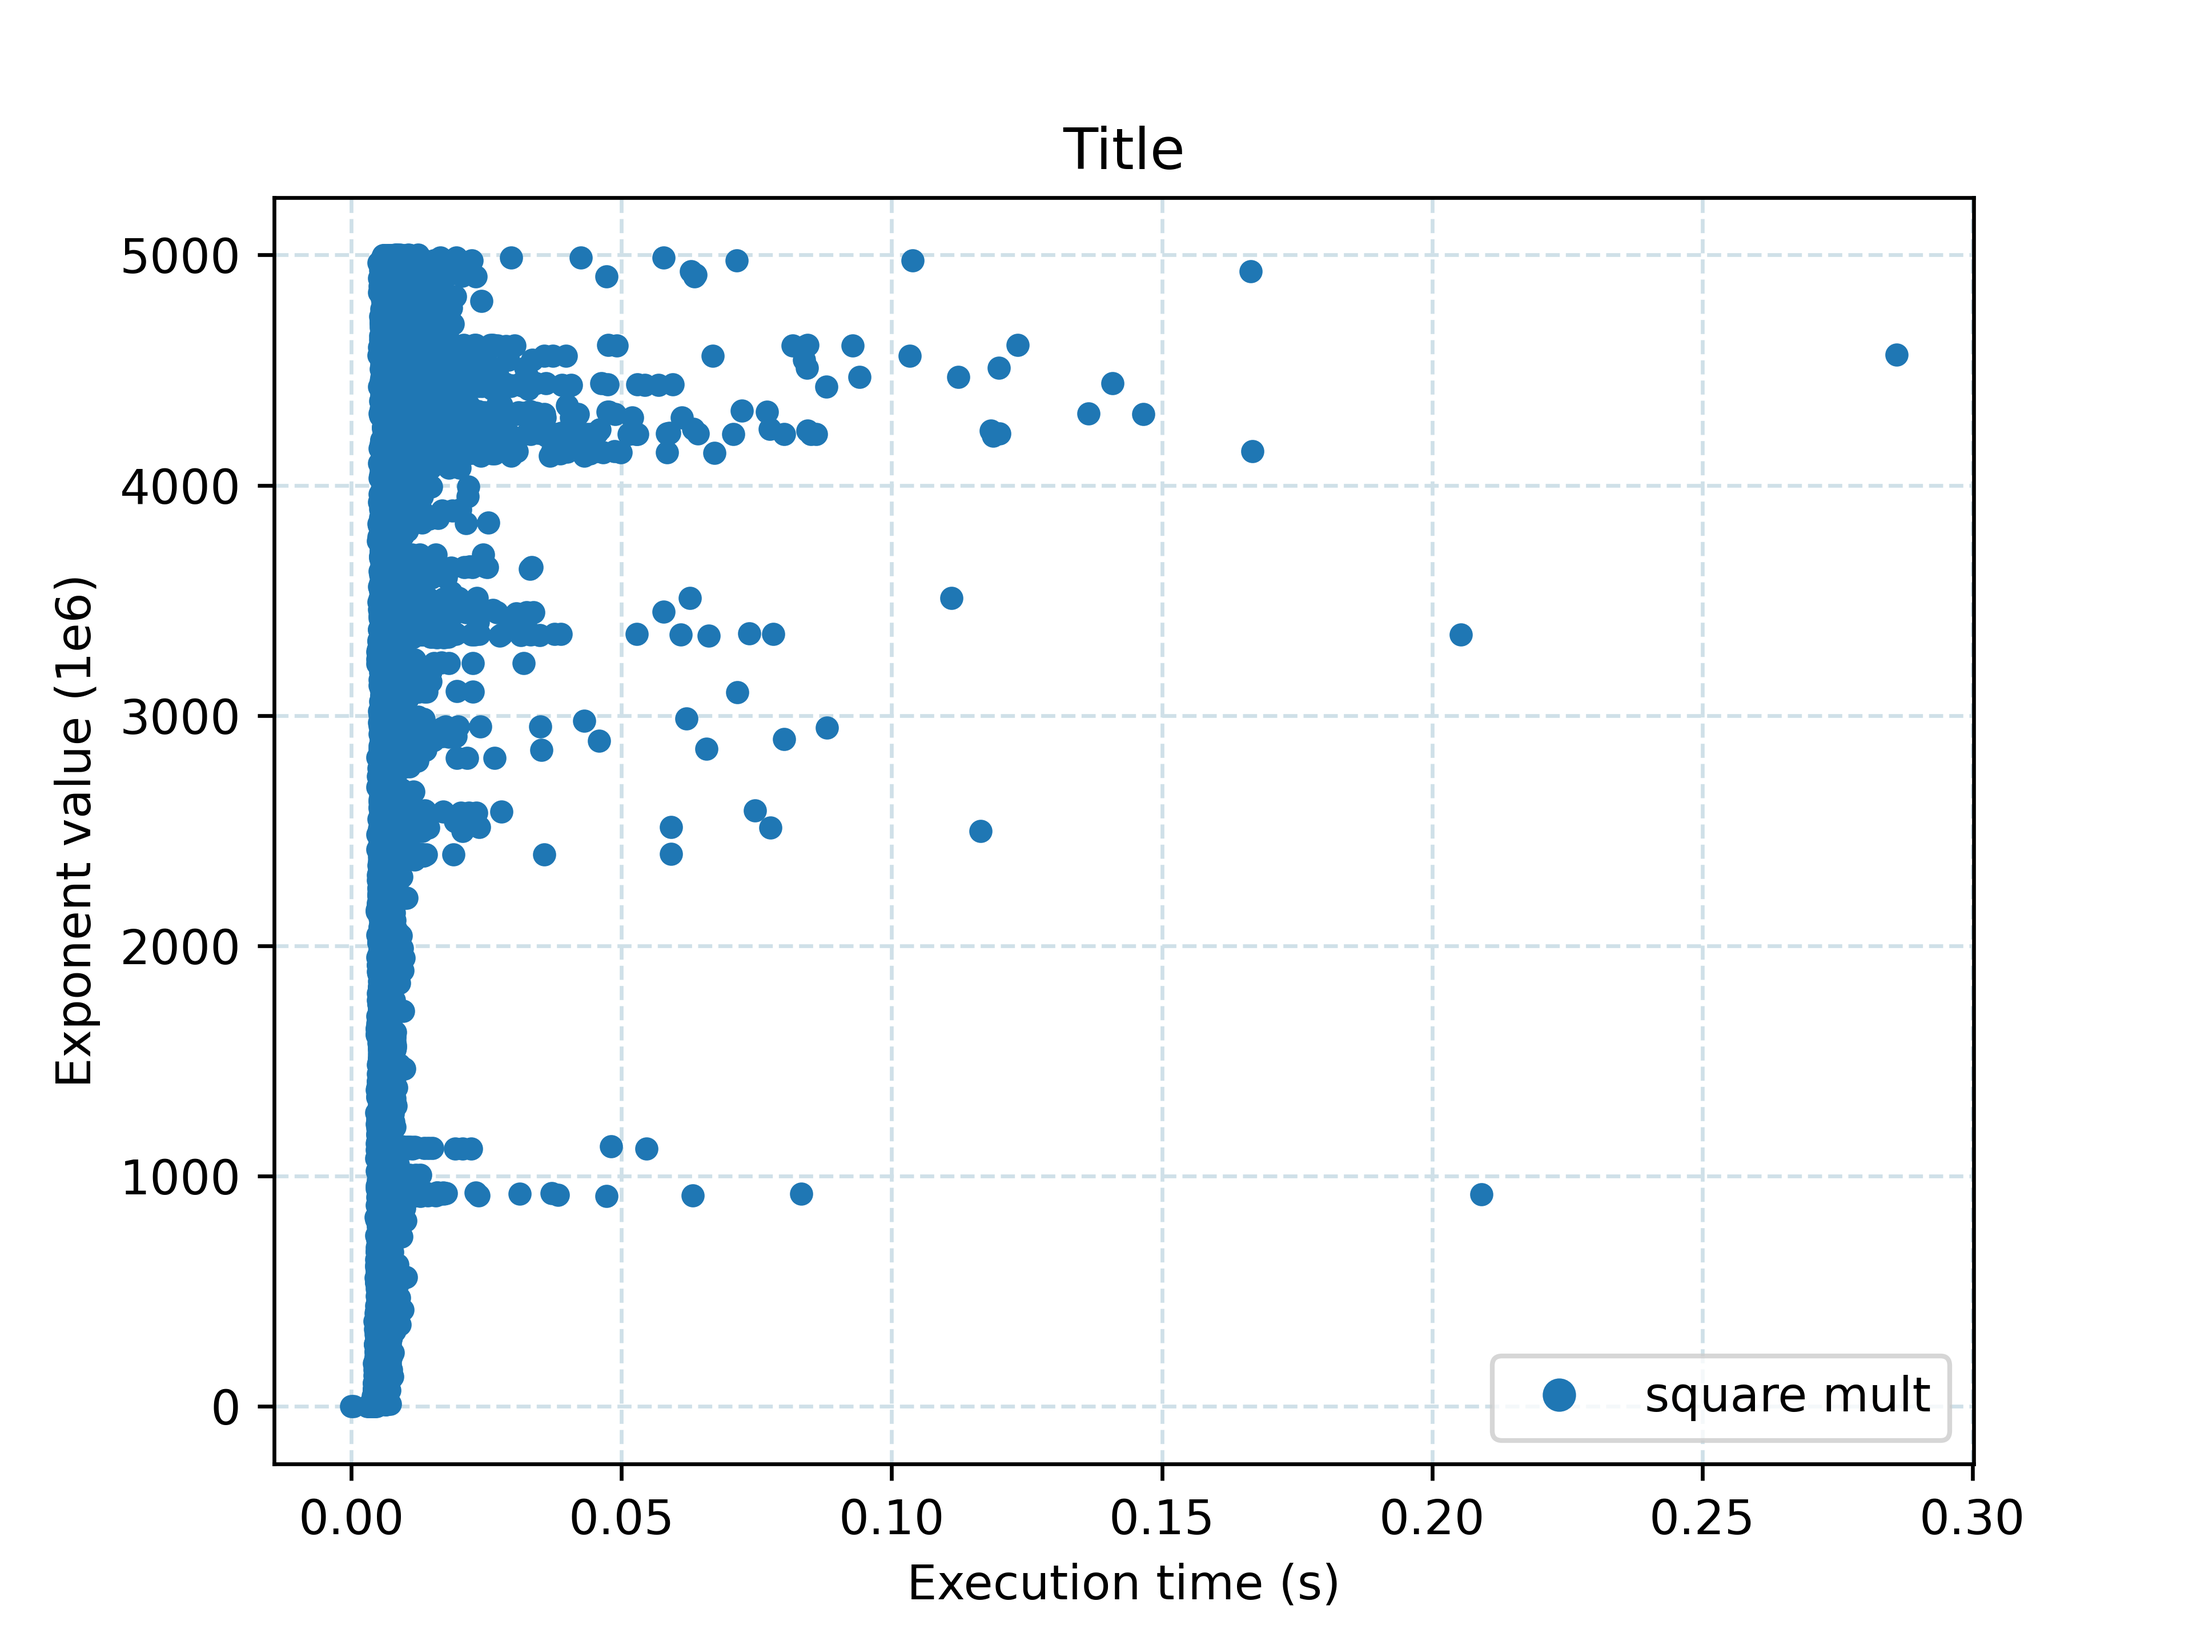
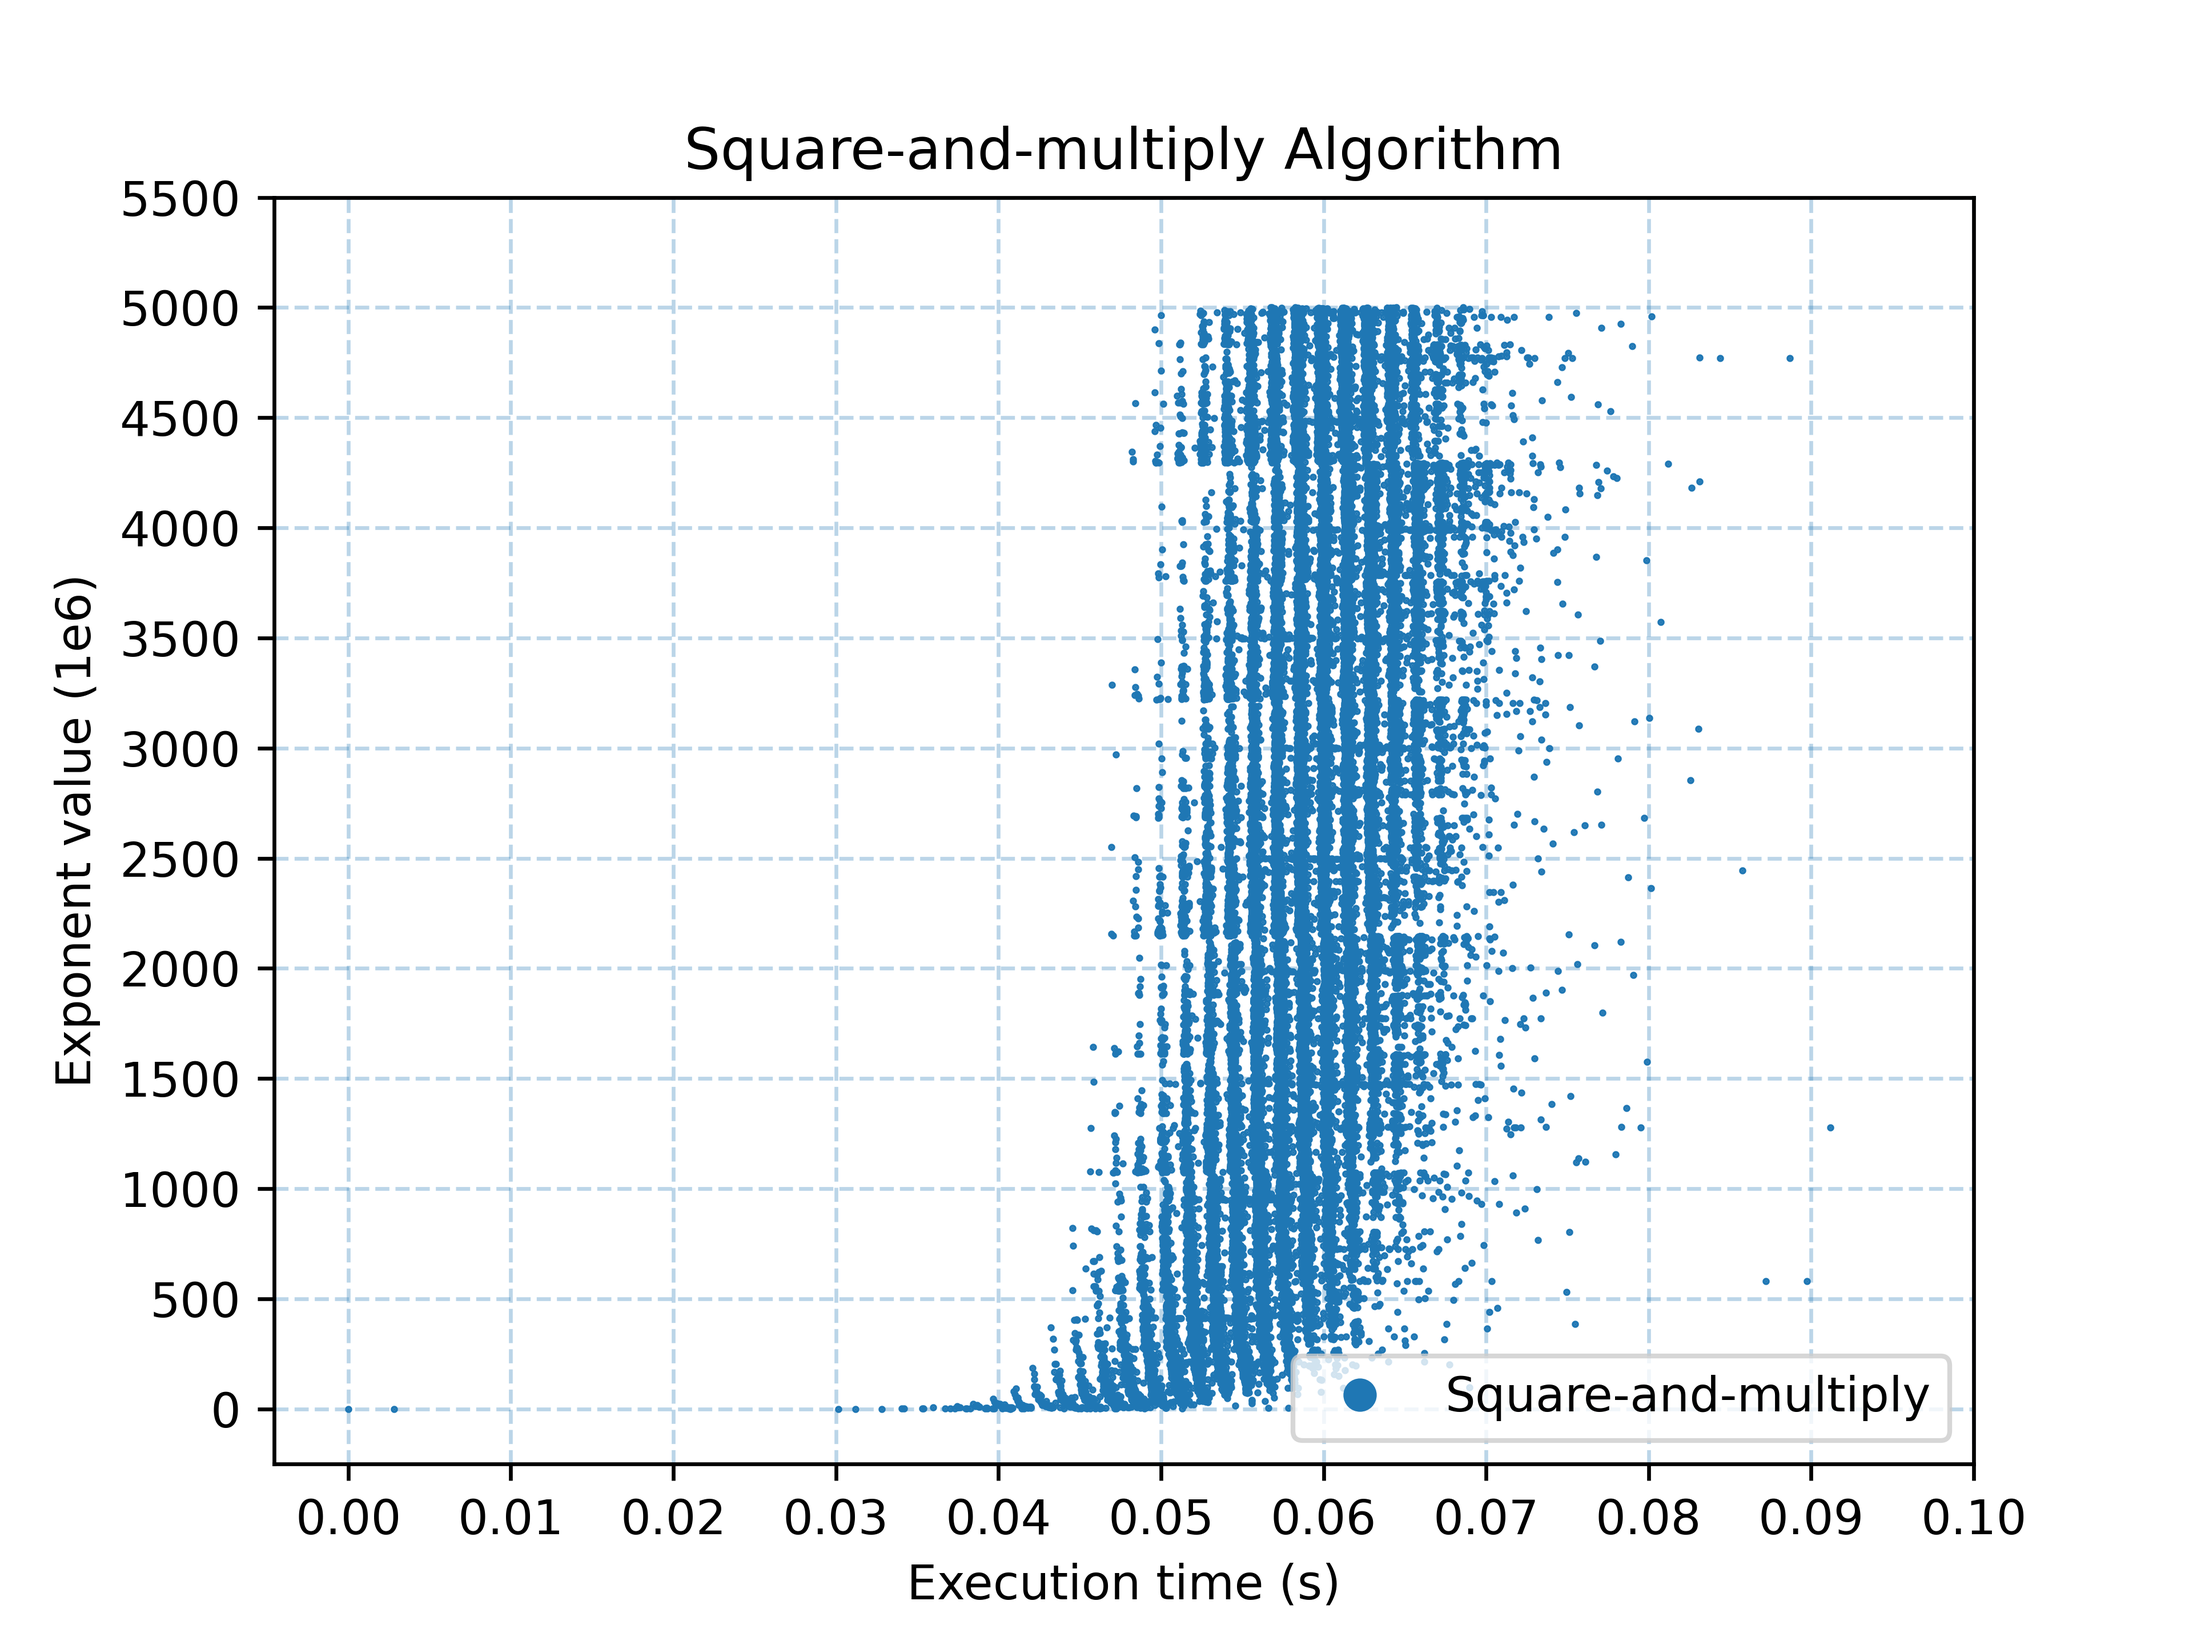
Single graphs done

diff --git a/Countermeasures/src/constants/constants.py b/Countermeasures/src/constants/constants.py
@@ -1,10 +1,9 @@
 E = [  # Exponent Ranges to be used
     3,
-    5000000000      # 1.000.000.000
+    1000000000  # 25.000.000.000
 ]
 # Increasing step for the key size
-E_STEP = 100000        # 100.000
-
+E_STEP = 100000  # 100.000
 
 N = 27717198807036709102711477657025983617502189422543517905554501821161346254130760336204092270200197509467985755394526028473796034663721327054486638927175954564808691810080519062784197427810586161599679574597325760584115699356926794000564365281475555146315301171339698824702726078232606714100029908329093194873169775904214268411350637699128923863579883976112406497794312324708356527742150589471693240852100363708141384315549913115049080003062029528488019729045406176208958331530172506084228295609516491963165404242917465291446904267476177696488980842033713996568489235543578188484252001277672931897068216357192983696503
 
@@ -12,6 +11,8 @@ MSG = 17551448821259686233315701109500236998071404084358796433141172148072603561
 
 MIN = 0  # Index in the lists for the maximum value
 MAX = 1  # Index in the lists for the maximum value
+
+EXE_REP = 50
 
 KEY_FOLDER_PATH = "data/keys/"
 KEY_FILE_PATH = "keys.csv"
@@ -24,18 +25,50 @@ MULT_ALW_FILE_PATH = "square_mult_alw_results.csv"
 
 MULT_LD_FOLDER_PATH = "data/ladder/"
 MULT_LD_FILE_PATH = "ladder.csv"
+IMG_FOLDER_PATH = "img/"
 
+EXP_COL = "Exponent"
+EXE_COL = "Execution time"
 
 IMG = [
     "square_mult",
     "square_mult_alw",
     "ladder"
 ]
-IMG_FOLDER_PATH = "img/"
 
-EXE_REP = 10
+COLOUR = [
+    "tab:blue",
+    "tab:orange",
+    "tab:green"
+]
 
+GRID_COLOUR = '#cfe0e8'
+GRID_LINESTYLE = '--'
 
-EXP_COL = "Exponent"
+LABEL = [
+    "Square-and-multiply",
+    "Square-and-multiply always",
+    "Montgomery Ladder"
+]
 
-EXE_COL = "Execution time"
+NAME = [
+    "Square-and-multiply Algorithm",
+    "Square-and-multiply Always Algorithm",
+    "Montgomery Ladder Algorithm"
+]
+
+AXIS = [
+    "Execution time (s)",
+    "Exponent value (1e6)"
+]
+
+X_AXIS = [0.0,
+          0.11,
+          0.01
+          ]
+
+Y_AXIS = [0,
+          6000,
+          500]
+
+POINT_SIZE = .25

diff --git a/Countermeasures/src/graph/createGraph.py b/Countermeasures/src/graph/createGraph.py
@@ -2,11 +2,13 @@ import matplotlib.pyplot as plt
 import numpy as np
 import pandas as pd
 
-from src.constants.constants import MULT_FOLDER_PATH, MULT_FILE_PATH, EXP_COL, EXE_COL, IMG_FOLDER_PATH, IMG
+from src.constants.constants import *
 
 
 def create_graph():
-    data = readfiles([MULT_FOLDER_PATH + MULT_FILE_PATH])
+    data = readfiles([MULT_FOLDER_PATH + MULT_FILE_PATH,
+                      MULT_ALW_FOLDER_PATH + MULT_ALW_FILE_PATH,
+                      MULT_LD_FOLDER_PATH + MULT_LD_FILE_PATH])
 
     createPlots(data)
 
@@ -29,24 +31,32 @@ def readfiles(files):
 
 
 def createPlots(data):
-    for idx, arr in enumerate(data):
+    for idx, arr in enumerate(data):  # Single graphs
         x = data[idx][EXE_COL]
         y = data[idx][EXP_COL]
 
-        plt.plot(x, y, 'o', label='square mult', markersize=np.sqrt(15.))
+        x_axis = np.arange(X_AXIS[0], X_AXIS[1], X_AXIS[2])
+        y_axis = np.arange(Y_AXIS[0], Y_AXIS[1], Y_AXIS[2])
 
-        # b, m = polyfit(x, y, 1)
-        # plt.plot(x, b + m * x, '-')
+        plt.plot(x, y, 'o', label=LABEL[idx], markersize=np.sqrt(POINT_SIZE), color=COLOUR[idx])
 
-        plt.title('Title')
-        plt.xlabel("Execution time (s)")
-        plt.ylabel("Exponent value (1e6)")
+        plt.xticks(x_axis)
+        plt.yticks(y_axis)
+
+        plt.title(NAME[idx])
+        plt.xlabel(AXIS[0])
+        plt.ylabel(AXIS[1])
 
         lgnd = plt.legend(loc="lower right", numpoints=1, fontsize=10)
         lgnd.legendHandles[0]._legmarker.set_markersize(6)
 
         # plt.grid(True)
 
-        plt.grid(True, color='#cfe0e8', linestyle='--')
+        plt.grid(True, color=COLOUR[idx], alpha=0.3,  linestyle=GRID_LINESTYLE)
+
+        print(IMG_FOLDER_PATH + IMG[idx] + ".png")
 
         plt.savefig(IMG_FOLDER_PATH + IMG[idx] + ".png", dpi=600)
+        plt.close()
+
+    

diff --git a/Countermeasures/src/functions/crypto.py b/Countermeasures/src/functions/crypto.py
@@ -1,9 +1,7 @@
-from cryptography.hazmat.primitives.asymmetric import rsa
-from cryptography.hazmat.backends import default_backend
 import numpy as np
 import pandas as pd
-from src.constants.constants import *
 
+from src.constants.constants import *
 from src.objects.key_object import KeyObject
 
 
@@ -21,28 +19,15 @@ def generate_e():
     return np.delete(x, index)  # Delete the elements which are not odd
 
 
-def generate_key_size():
-    """
-    Generates all the values for the key size value according to the range values
-    :return: Np array with the key size values
-    """
-    # TODO
-    # return np.arange(KEY_SIZE[MIN], KEY_SIZE[MAX], KEY_STEP)  # Creates a np array with the constant values
-    return np.array([KEY_SIZE[MAX]])  # Only one key size
-
-
 def generate_rsa_keys(e_list):
     """
     Generates the RSA keys as a list of KeyObject
     :param e_list: List of exponents to be used
-    :param key_sz_list: List of key sizes to be used
     :return: List with all the KeyObject created
     """
     key_list_aux = []
     for e_i in e_list:
         key_list_aux.append(KeyObject(e=e_i, n=N, msg=MSG))
-        # key_list_aux.append(create_key(np.int32(e_i).item(),  # Create and append the new key
-        #                               np.int32(k_i).item()))
     return key_list_aux
 
 

diff --git a/Countermeasures/main.py b/Countermeasures/main.py
@@ -38,11 +38,10 @@ def run(ctx, key, load):
         elif load:  # Load the keys
             key_list = load_keys()
         if i == 0:
-            # square_mult(key_list)  # Execute 1
+            square_mult(key_list)  # Execute 1
             print()
         elif i == 1:
-            # square_mult_alw(key_list)  # Execute 2
-            print()
+            square_mult_alw(key_list)  # Execute 2
         elif i == 2:
             square_ladder(key_list)  # Execute 3
     return 0

diff --git a/Countermeasures/src/algorithms/ladder.py b/Countermeasures/src/algorithms/ladder.py
@@ -13,8 +13,8 @@ def square_ladder(key_list):
     for key in key_list:
         # Encryption
         enc_time = run(key.msg, key.e, key.n)
+
         new_key_list.append(key.add_time(enc_time))  # Add new KeyObject with time
-        break
     save_results(new_key_list)
     return new_key_list
 

diff --git a/Countermeasures/src/algorithms/square_mult_alw.py b/Countermeasures/src/algorithms/square_mult_alw.py
@@ -13,6 +13,7 @@ def square_mult_alw(key_list):
     for key in key_list:
         # Encryption
         enc_time = run(key.msg, key.e, key.n)
+
         new_key_list.append(key.add_time(enc_time))  # Add new KeyObject with time
     save_results(new_key_list)
     return new_key_list
